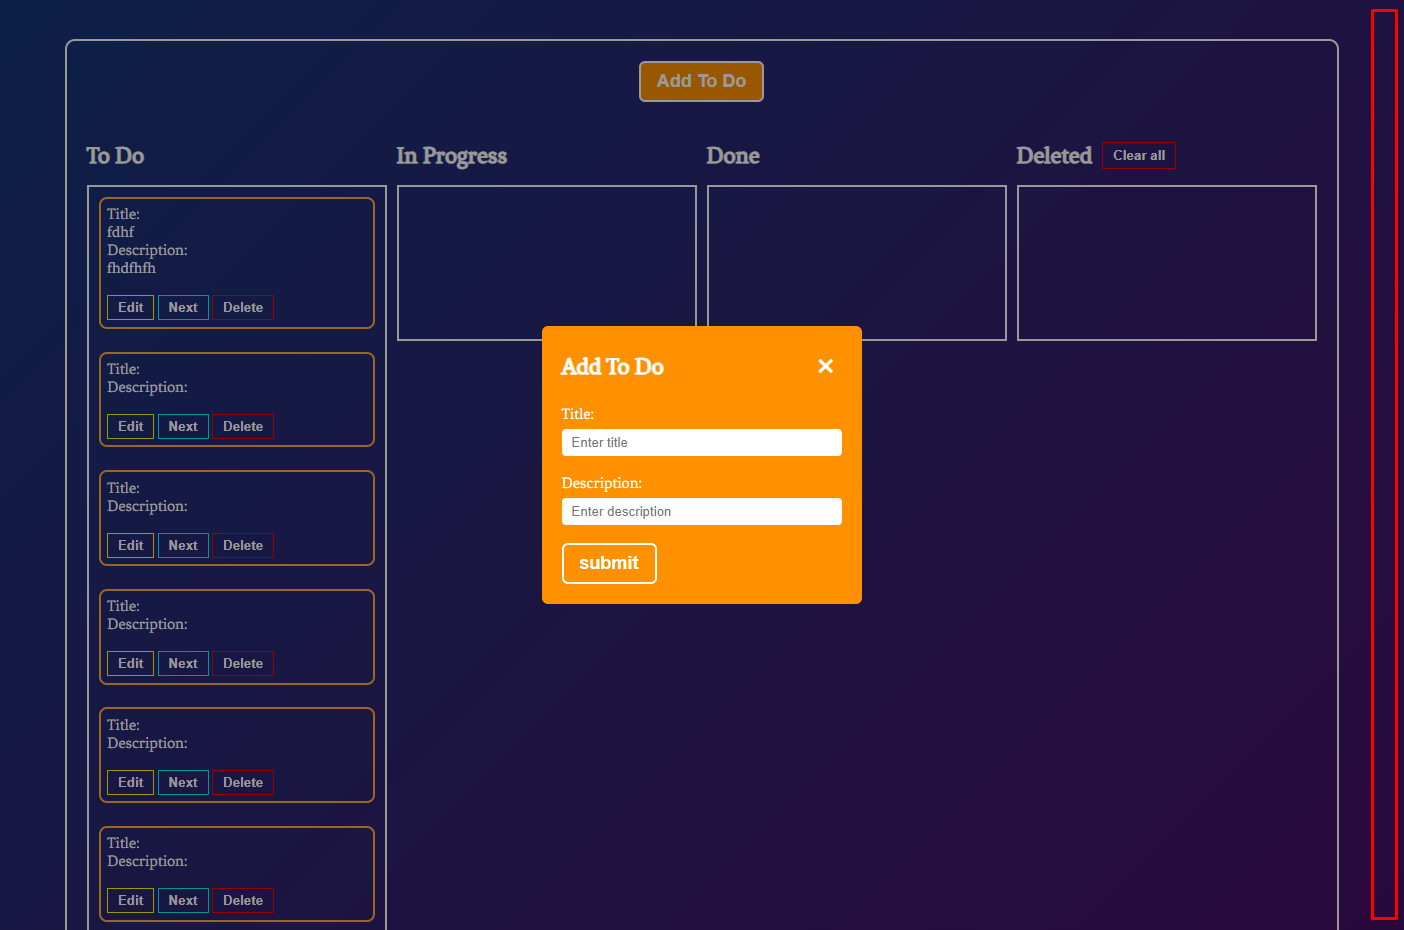
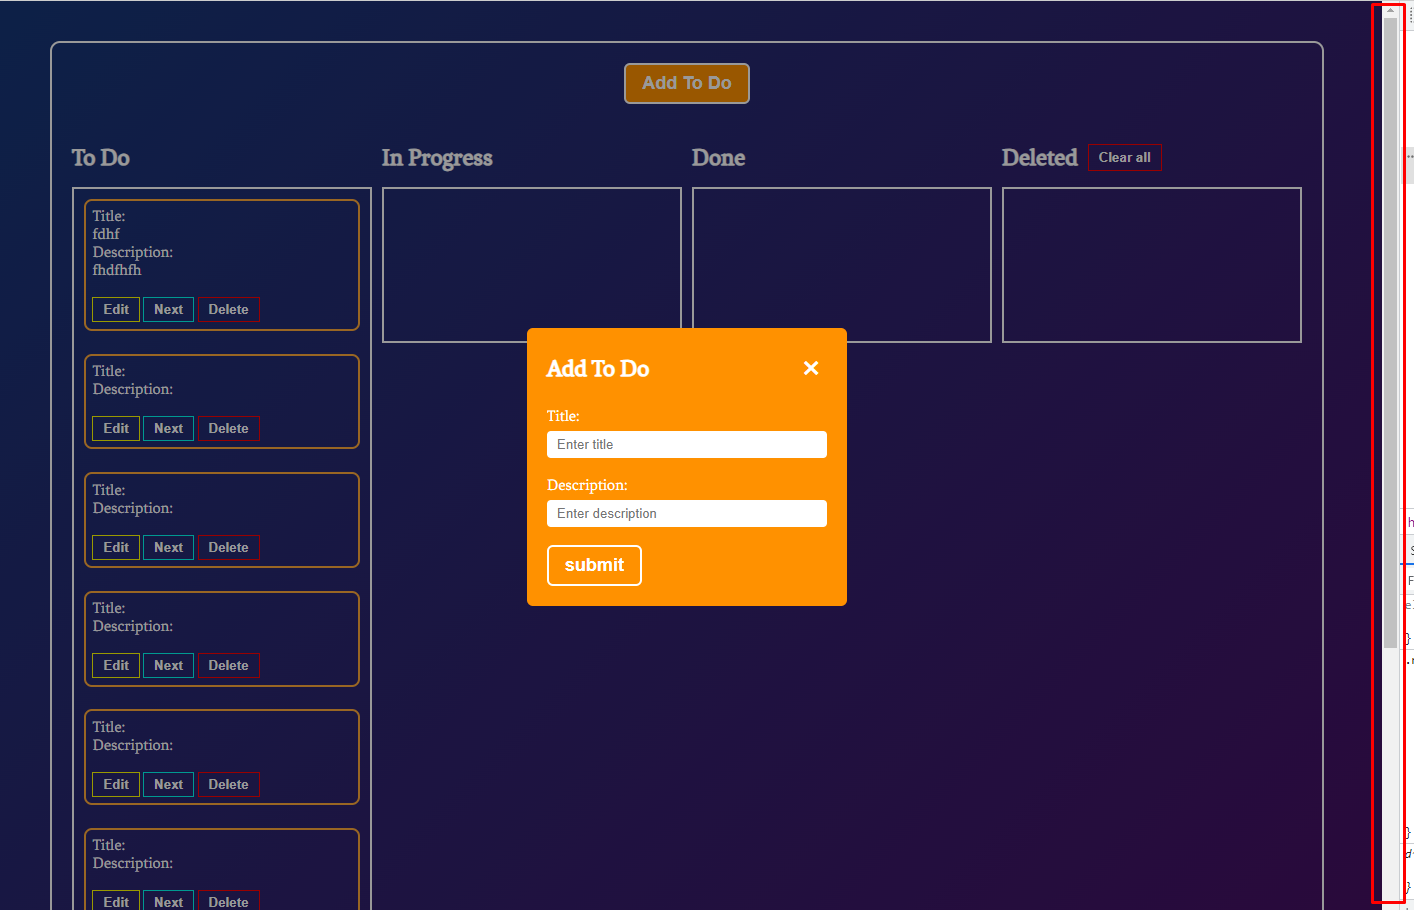
task6

Changed region(s): [[0.0306, 0.0, 1.0, 1.0]]

diff --git a/Readme.md b/Readme.md
@@ -2,9 +2,9 @@
 
 1. Cтилизуй приложение на свой вкус.
 
-![Alt text](./images/image-0.png)
+![Alt text](./images/image-1.png)
 
 2. Убрать вертикальный скрол при открытом модальном окне.
 
-![Alt text](./images/image-1.png)
 ![Alt text](./images/image-2.png)
+![Alt text](./images/image-3.png)
